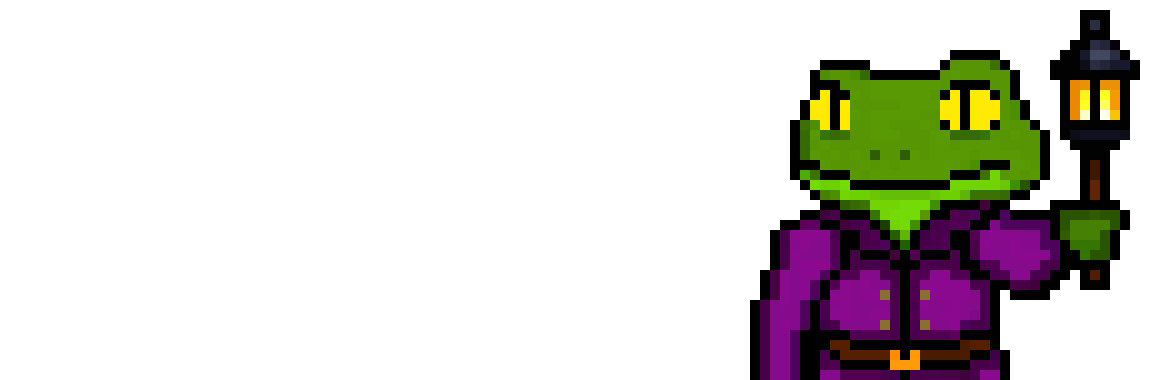
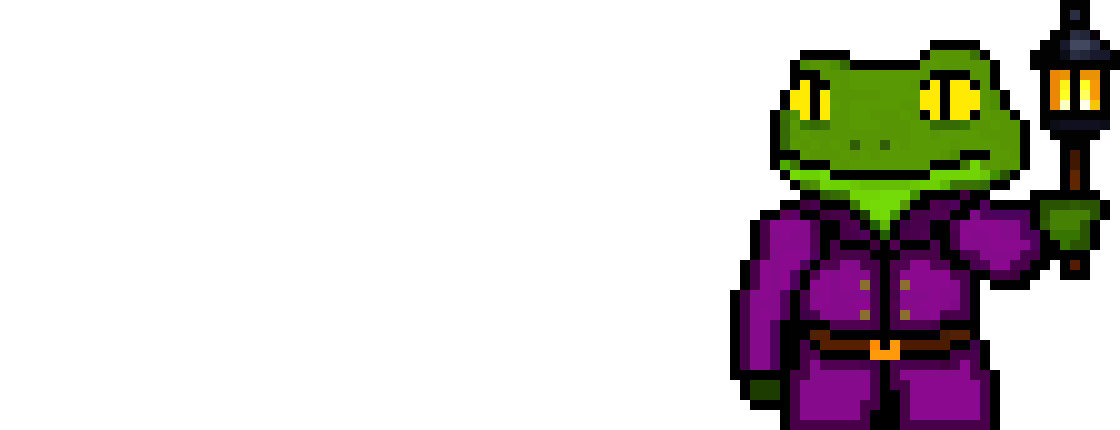
add better picture for frog hover on main screen

Changed region(s): [[0.625, 0.0, 1.0, 1.0]]

diff --git a/src/App.css b/src/App.css
@@ -120,7 +120,7 @@
 /* Frog container styles */
 .frog-container {
   position: absolute;
-  bottom: 7%;
+  bottom: 5%;
   right: 2%;
   width: 30%;
   height: auto;
